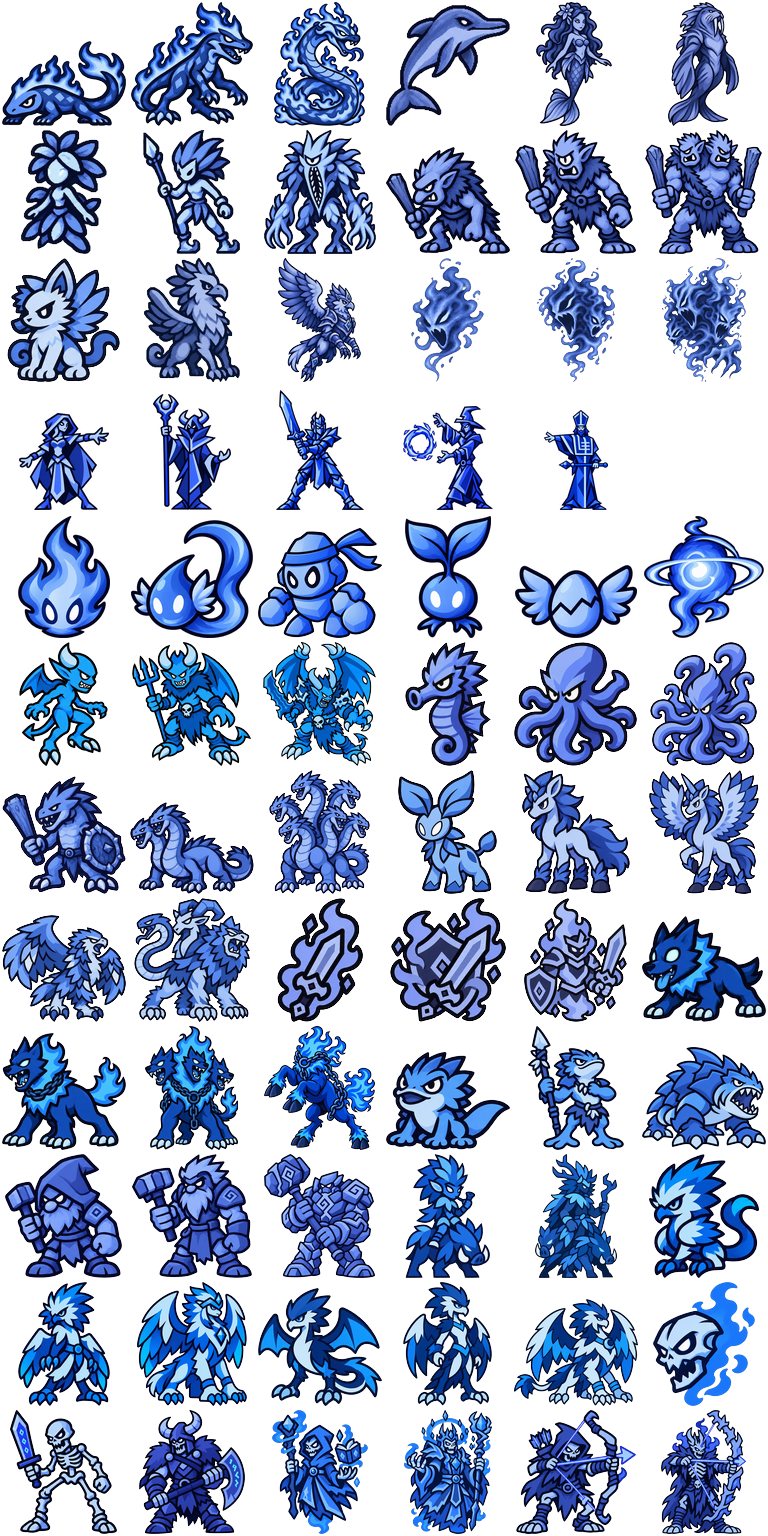
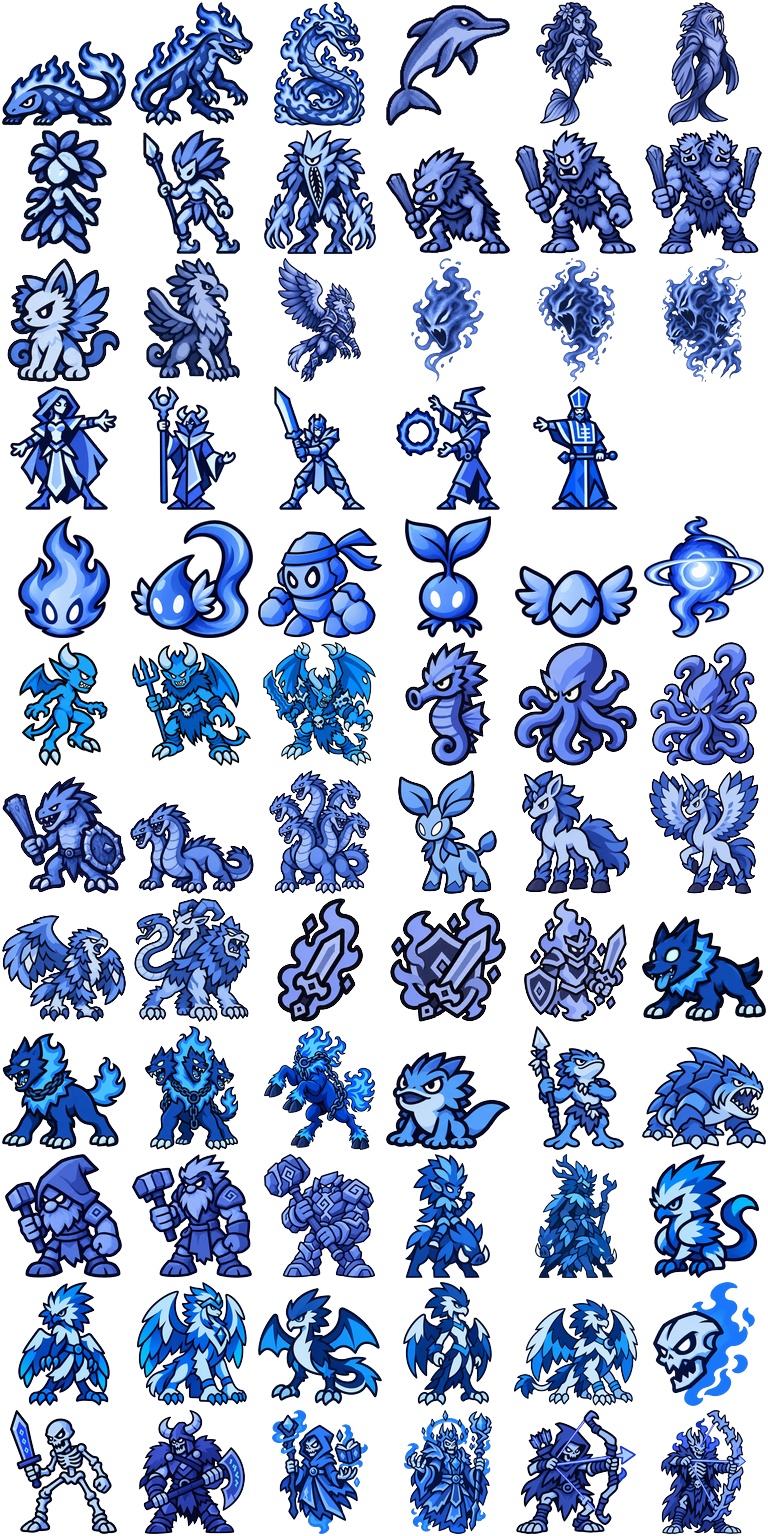
v1.12: novas artes dos mestres, com contorno extra mais fino

diff --git a/index.html b/index.html
@@ -1816,7 +1816,7 @@ function fundoMenu(cena='inicio'){
 }
 // cada cena tem seu ponto de interesse (torre, pavilhão, monólito): é ele que fica à vista quando a tela corta os lados
 const poeArte=(el,cena)=>{try{el.style.setProperty('--fundoMenu',`url(${fundoMenu(cena)})`);el.style.setProperty('--fundoX',{inicio:'50%',batalha:'46%',carregar:'30%'}[cena]);el.dataset.cena=cena;el.classList.add('arte');}catch(e){}};
-const VERSAO='1.11'; // aumentar 0.01 a cada atualização publicada
+const VERSAO='1.12'; // aumentar 0.01 a cada atualização publicada
 // tela inicial: menu principal com três botões (Jogar, Preparar Batalha, Carregar jogo)
 // inicio = aberta ao abrir o jogo (ou no fim da partida): sem "Voltar ao jogo"
 function abreConfig(inicio=false){
@@ -4375,7 +4375,7 @@ const ORDEM_SPR=['faisca','brasador','pirolorde','gotim','corrente','abissal','b
   'harpiaSol','esfingeSol','cocatrizLua','harpiaLua','esfingeLua','caveira', // 11ª linha: as linhagens Solar e Lunar do Ar e a Caveira
   'esqGuerreiro','draugr','esqMago','lich','esqArqueiro','flecheiro']; // 12ª linha: os esqueletos da Essência
 const ATL_LIN=12;
-const ATLAS=/*ATLAS*/"img/atlas.png?v=8ea68f8b"/*FIM_ATLAS*/;
+const ATLAS=/*ATLAS*/"img/atlas.png?v=b8c6ce3f"/*FIM_ATLAS*/;
 const CEL=128;
 // estágio de evolução tem que ser legível só pelo tamanho: 0 mínimo, 1º pequeno, 2º médio, 3º grande (passa da borda do hexágono)
 const TAM_SPR=[21,28,40,56];
@@ -4432,6 +4432,7 @@ function tingir(img,rampa){
 // figuras que encostam na borda da célula original ganham o contorno inteiro, sem bordas cortadas,
 // e o contorno de uma célula nunca invade a vizinha. Para desenhar, use celSpr() abaixo.
 const MARG=10,CELP=CEL+2*MARG;
+const R_MESTRE=2; // raio do contorno dos mestres (4ª linha do atlas, células 0-4)
 function contornar(img,r,cor){
   const W2=6*CELP,H2=ATL_LIN*CELP;
   const lim=document.createElement('canvas');lim.width=W2;lim.height=H2;const lg=lim.getContext('2d');
@@ -4460,8 +4461,9 @@ function contornar(img,r,cor){
   const carimbo=(cx,cy,dx,dy)=>g.drawImage(sil,cx*CELP,cy*CELP,CELP,CELP,cx*CELP+dx,cy*CELP+dy,CELP,CELP);
   for(let cy=0;cy<ATL_LIN;cy++)for(let cx=0;cx<6;cx++){
     g.save();g.beginPath();g.rect(cx*CELP+1,cy*CELP+1,CELP-2,CELP-2);g.clip(); // 1 px livre na borda: a suavização não puxa a vizinha
-    for(let a=0;a<16;a++){const an=a/16*Math.PI*2;carimbo(cx,cy,Math.round(Math.cos(an)*r),Math.round(Math.sin(an)*r));}
-    for(let a=0;a<8;a++){const an=a/8*Math.PI*2;carimbo(cx,cy,Math.round(Math.cos(an)*r*.5),Math.round(Math.sin(an)*r*.5));}
+    const rc=cy===3&&cx<5?R_MESTRE:r; // mestres: a arte já tem traço grosso, o contorno extra é mais fino
+    for(let a=0;a<16;a++){const an=a/16*Math.PI*2;carimbo(cx,cy,Math.round(Math.cos(an)*rc),Math.round(Math.sin(an)*rc));}
+    for(let a=0;a<8;a++){const an=a/8*Math.PI*2;carimbo(cx,cy,Math.round(Math.cos(an)*rc*.5),Math.round(Math.sin(an)*rc*.5));}
     g.restore();}
   g.drawImage(lim,0,0);
   return c;
